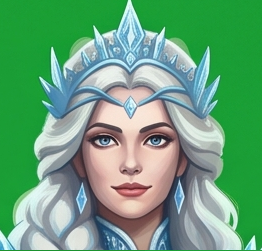
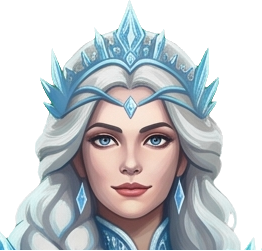
fix: Process and remove green chroma key background from Frostina full-body and face images

diff --git a/index.html b/index.html
@@ -788,11 +788,11 @@
         </div>
     </div>
 
-    <script src="scenarios.js?v=10.53"></script>
-    <script src="heroes.js?v=10.53"></script>
-    <script src="flashcards.js?v=10.53"></script>
-    <script src="grammar.js?v=10.53"></script>
-    <script src="ai_service.js?v=10.53"></script>
-    <script src="app.js?v=10.53"></script>
+    <script src="scenarios.js?v=10.54"></script>
+    <script src="heroes.js?v=10.54"></script>
+    <script src="flashcards.js?v=10.54"></script>
+    <script src="grammar.js?v=10.54"></script>
+    <script src="ai_service.js?v=10.54"></script>
+    <script src="app.js?v=10.54"></script>
 </body>
 </html>
